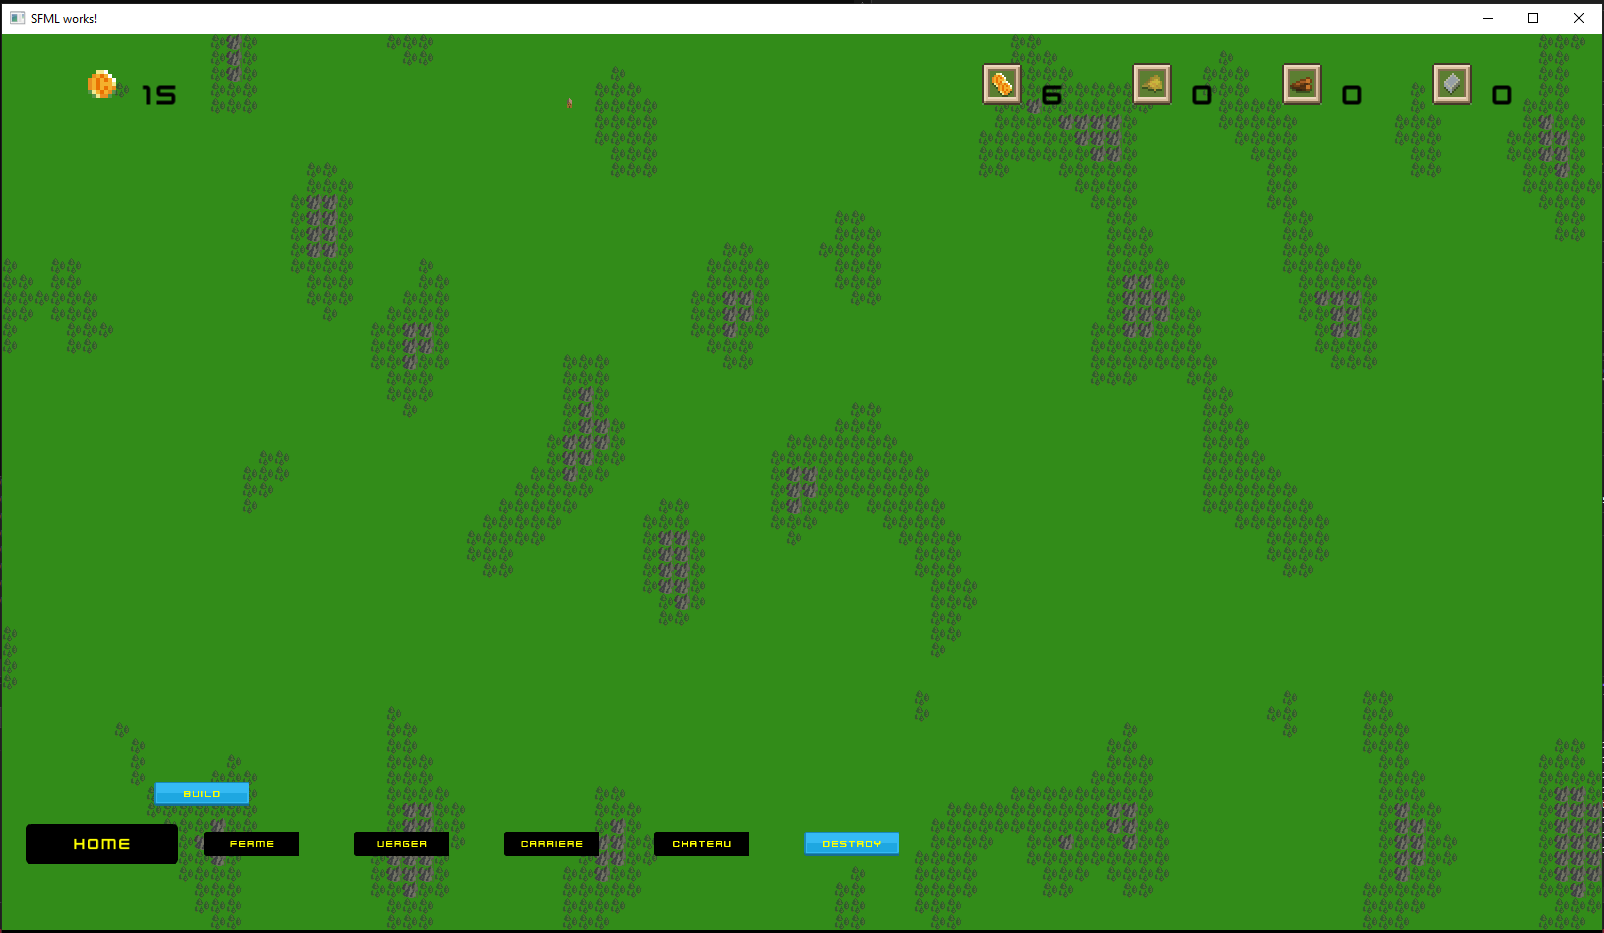
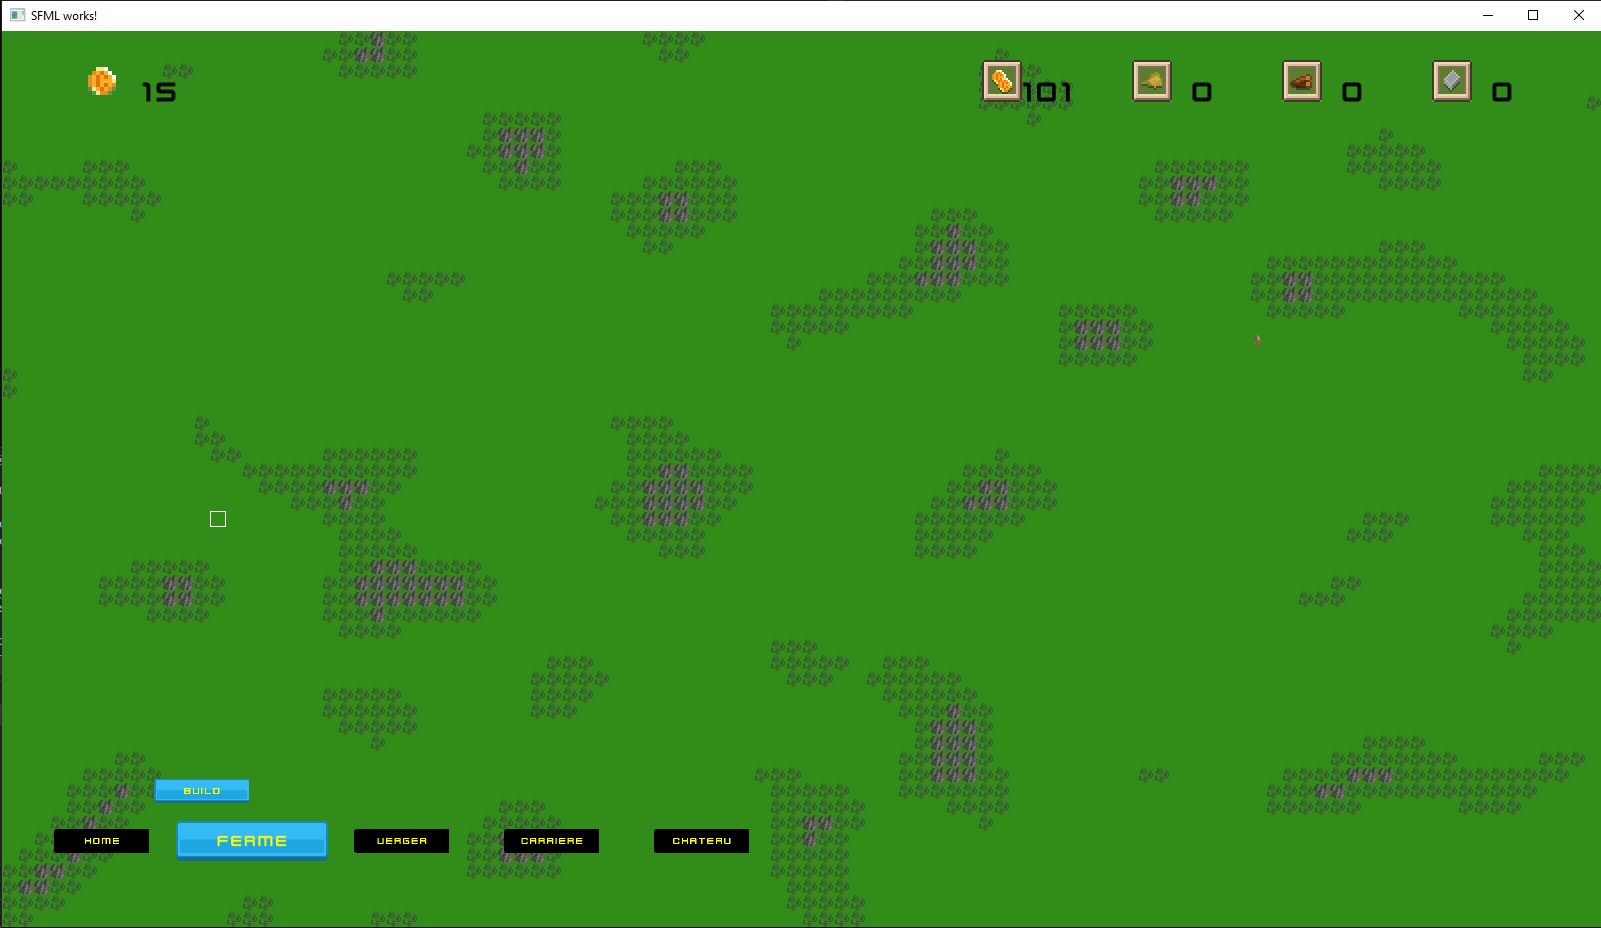
Corection Bug

diff --git a/game/src/main_game.cc b/game/src/main_game.cc
@@ -25,7 +25,10 @@ MainGame::MainGame()
 
 	resource_.setUiPosistion(window_);
 
-	tilemap_.ClickedTile_ = std::bind(&BuildingManager::AddBuilding, &building_manager_, std::placeholders::_1, build_, &resource_);
+	tilemap_.ClickedTile_ = [this](Tile& tile)
+		{
+			building_manager_.AddBuilding(tile, build_, resource_);
+		};
 
 	btn_generate.CreatButton(sf::Vector2f(50, 760), "Generate", 20, sf::Color::Yellow);
 	btn_generate.setScale(0.5f, 0.5f);
@@ -53,7 +56,7 @@ MainGame::MainGame()
 		};
 
 	btn_building_Home.CreatButton(sf::Vector2f(100, 810), "Home", 20, sf::Color::Yellow);
-	btn_building_Home.setScale(0.8f, 0.8f);
+	btn_building_Home.setScale(0.5f, 0.5f);
 	btn_building_Home.call_back_ = [this]()
 		{
 			btn_building_Home.setScale(0.8f, 0.8f);
@@ -69,7 +72,7 @@ MainGame::MainGame()
 		};
 
 	btn_building_Ferme.CreatButton(sf::Vector2f(250, 810), "Ferme", 20, sf::Color::Yellow);
-	btn_building_Ferme.setScale(0.5f, 0.5f);
+	btn_building_Ferme.setScale(0.8f, 0.8f);
 	btn_building_Ferme.call_back_ = [this]()
 		{
 			btn_building_Ferme.setScale(0.8f, 0.8f);
@@ -280,98 +283,121 @@ void MainGame::GameLoop()
 				mouse_on_btn = true;
 			}*/
 
-			if (btn_building_Home.HandleEvent(event))
+			if (resource_.food() >= 100 && resource_.gold() >= 200)
 			{
-				mouse_on_btn = true;
+				if (btn_building_Home.HandleEvent(event))
+				{
+					mouse_on_btn = true;
+				}
 			}
 
-			if (btn_building_Ferme.HandleEvent(event))
+			if (resource_.gold() >= 100)
 			{
-				mouse_on_btn = true;
+				if (btn_building_Ferme.HandleEvent(event))
+				{
+					mouse_on_btn = true;
+				}
 			}
 
-			if (btn_building_Menuiserie.HandleEvent(event))
+			if (resource_.food() >= 200 && resource_.gold() >= 300)
 			{
-				mouse_on_btn = true;
+				if (btn_building_Menuiserie.HandleEvent(event))
+				{
+					mouse_on_btn = true;
+				}
 			}
 
-			if (btn_building_Carriere.HandleEvent(event))
+			if (resource_.food() >= 300 && resource_.gold() >= 400 && resource_.wood() >= 200)
 			{
-				mouse_on_btn = true;
+				if (btn_building_Carriere.HandleEvent(event))
+				{
+					mouse_on_btn = true;
+				}
 			}
 
-			if (btn_building_Chateau.HandleEvent(event))
+			if (resource_.food() >= 25000 && resource_.gold() >= 50000
+				&& resource_.wood() >= 12500 && resource_.stone() >= 10000)
 			{
-				mouse_on_btn = true;
+				if (btn_building_Chateau.HandleEvent(event))
+				{
+					mouse_on_btn = true;
+				}
 			}
 
 			if (resource_.gold() >= 100)
 			{
 				btn_building_Ferme.Set_Color_Sprite(sf::Color::White);
-				full_ressource_ = true;
+				full_ressource_for_ferme_ = true;
 			}
 			else
 			{
 				btn_building_Ferme.Set_Color_Sprite(sf::Color::Black);
-				full_ressource_ = false;
+				full_ressource_for_ferme_ = false;
 			}
 
 			if (resource_.food() >= 100 && resource_.gold() >= 200)
 			{
 				btn_building_Home.Set_Color_Sprite(sf::Color::White);
-				full_ressource_ = true;
+				full_ressource_for_home_ = true;
 			}
 			else
 			{
 				btn_building_Home.Set_Color_Sprite(sf::Color::Black);
-				full_ressource_ = false;
+				full_ressource_for_home_ = false;
 			}
 
 			if (resource_.food() >= 200 && resource_.gold() >= 300)
 			{
 				btn_building_Menuiserie.Set_Color_Sprite(sf::Color::White);
-				full_ressource_ = true;
+				full_ressource_for_verger_ = true;
 			}
 			else
 			{
 				btn_building_Menuiserie.Set_Color_Sprite(sf::Color::Black);
-				full_ressource_ = false;
+				full_ressource_for_verger_ = false;
 			}
 
 			if (resource_.food() >= 300 && resource_.gold() >= 400 && resource_.wood() >= 200)
 			{
 				btn_building_Carriere.Set_Color_Sprite(sf::Color::White);
-				full_ressource_ = true;
+				full_ressource_for_mine_ = true;
 			}
 			else
 			{
 				btn_building_Carriere.Set_Color_Sprite(sf::Color::Black);
-				full_ressource_ = false;
+				full_ressource_for_mine_ = false;
 			}
 
 			if (resource_.food() >= 25000 && resource_.gold() >= 50000
 				&& resource_.wood() >= 12500 && resource_.stone() >= 10000)
 			{
 				btn_building_Chateau.Set_Color_Sprite(sf::Color::White);
-				full_ressource_ = true;
+				full_ressource_for_chateau_ = true;
 			}
 			else
 			{
 				btn_building_Chateau.Set_Color_Sprite(sf::Color::Black);
-				full_ressource_ = false;
+				full_ressource_for_chateau_ = false;
 			}
 
 
 			if (destroy_active_)
 			{
-				tilemap_.ClickedTile_ = std::bind(&BuildingManager::SubBuilding, &building_manager_, std::placeholders::_1, &resource_);
+				tilemap_.ClickedTile_ = [this](Tile& tile)
+					{
+						building_manager_.SubBuilding(tile, resource_);
+					};
+				
 			}
 			else
 			{
-				tilemap_.ClickedTile_ = std::bind(&BuildingManager::AddBuilding, &building_manager_, std::placeholders::_1, build_, &resource_);
+				tilemap_.ClickedTile_ = [this](Tile& tile)
+					{
+						building_manager_.AddBuilding(tile, build_, resource_);
+					};
 			}
 
-			if (!mouse_on_btn && full_ressource_)
+			if (!mouse_on_btn && (full_ressource_for_home_ || full_ressource_for_ferme_ || full_ressource_for_verger_ || full_ressource_for_mine_ || full_ressource_for_chateau_))
 			{
 				tilemap_.HandleEvent(event, window_, view_);
 			}

diff --git a/api/src/gameplay/building_manager.cc b/api/src/gameplay/building_manager.cc
@@ -39,7 +39,7 @@ void BuildingManager::draw(sf::RenderTarget& target, sf::RenderStates states) co
 	}
 }
 
-void BuildingManager::CreatFirstBuildingHome(std::vector<Tile>& tiles, ResourceGame* resource_)
+void BuildingManager::CreatFirstBuildingHome(std::vector<Tile>& tiles, GameRessource* resource_)
 {
 	bool homeNotPlace = true;
 	std::random_device r;
@@ -61,7 +61,7 @@ void BuildingManager::CreatFirstBuildingHome(std::vector<Tile>& tiles, ResourceG
 	} while (homeNotPlace);
 }
 
-void BuildingManager::AddBuilding(Tile& tile, Build building, ResourceGame* resource_)
+void BuildingManager::AddBuilding(Tile& tile, Build building, GameRessource& resource_)
 {
 	Tile::TileType type;
 
@@ -80,40 +80,40 @@ void BuildingManager::AddBuilding(Tile& tile, Build building, ResourceGame* reso
 		case Build::kHome:
 		{
 			buildings_.emplace_back(tile.Position().x, tile.Position().y, Build::kHome);
-			resource_->AddBatiment(Build::kHome);
-			resource_->PayBatiment(Build::kHome);
+			resource_.AddBatiment(Build::kHome);
+			resource_.PayBatiment(Build::kHome);
 			type = Tile::TileType::kHome;
 		}
 		break;
 		case Build::kFerme:
 		{
 			buildings_.emplace_back(tile.Position().x, tile.Position().y, Build::kFerme);
-			resource_->AddBatiment(Build::kFerme);
-			resource_->PayBatiment(Build::kFerme);
+			resource_.AddBatiment(Build::kFerme);
+			resource_.PayBatiment(Build::kFerme);
 			type = Tile::TileType::kFerme;
 		}
 		break;
 		case Build::kVerger:
 		{
 			buildings_.emplace_back(tile.Position().x, tile.Position().y, Build::kVerger);
-			resource_->AddBatiment(Build::kVerger);
-			resource_->PayBatiment(Build::kVerger);
+			resource_.AddBatiment(Build::kVerger);
+			resource_.PayBatiment(Build::kVerger);
 			type = Tile::TileType::kVerger;
 		}
 		break;
 		case Build::kCarriere:
 		{
 			buildings_.emplace_back(tile.Position().x, tile.Position().y, Build::kCarriere);
-			resource_->AddBatiment(Build::kCarriere);
-			resource_->PayBatiment(Build::kCarriere);
+			resource_.AddBatiment(Build::kCarriere);
+			resource_.PayBatiment(Build::kCarriere);
 			type = Tile::TileType::kCarriere;
 		}
 		break;
 		case Build::kChateau:
 		{
 			buildings_.emplace_back(tile.Position().x, tile.Position().y, Build::kChateau);
-			resource_->AddBatiment(Build::kChateau);
-			resource_->PayBatiment(Build::kChateau);
+			resource_.AddBatiment(Build::kChateau);
+			resource_.PayBatiment(Build::kChateau);
 			type = Tile::TileType::kChateau;
 		}
 		break;
@@ -124,7 +124,7 @@ void BuildingManager::AddBuilding(Tile& tile, Build building, ResourceGame* reso
 	}
 }
 
-void BuildingManager::SubBuilding(Tile& tile, ResourceGame* resource_)
+void BuildingManager::SubBuilding(Tile& tile, GameRessource& resource_)
 {
 	if (!is_active_)
 	{
@@ -141,7 +141,7 @@ void BuildingManager::SubBuilding(Tile& tile, ResourceGame* resource_)
 			return b.Position() == tile.Position(); });
 
 		buildings_.erase(it);
-		resource_->SubBatiment(tile.Type());
+		resource_.SubBatiment(tile.Type());
 	}
 
 

diff --git a/game/include/main_game.h b/game/include/main_game.h
@@ -35,7 +35,7 @@ class MainGame
 
 	sf::RenderWindow window_;
 
-	ResourceGame resource_;
+	GameRessource resource_;
 
 	sf::View view_;
 	sf::View viewUi_;
@@ -44,11 +44,15 @@ class MainGame
 	bool isPanning = false;
 	sf::Vector2f oldPos;
 	sf::Vector2f newPos;
-	Build build_ = Build::kHome;
+	Build build_ = Build::kFerme;
 	bool build_active_ = false;
 	bool destroy_active_ = false;
 	bool mouse_on_btn;
-	bool full_ressource_ = false;
+	bool full_ressource_for_home_ = false;
+	bool full_ressource_for_ferme_ = false;
+	bool full_ressource_for_verger_ = false;
+	bool full_ressource_for_mine_ = false;
+	bool full_ressource_for_chateau_ = false;
 
 	const int gridWidth = tilemap_.playground_size_u_.x;
 	const int gridHeight = tilemap_.playground_size_u_.y;

diff --git a/api/include/gameplay/building_manager.h b/api/include/gameplay/building_manager.h
@@ -19,12 +19,12 @@ private:
 	bool GetActive() const;
 
 public :
-	void AddBuilding (Tile& tile, Build build, ResourceGame* resource_);
-	void SubBuilding(Tile& tile, ResourceGame* resource_);
+	void AddBuilding (Tile& tile, Build build, GameRessource& resource_);
+	void SubBuilding(Tile& tile, GameRessource& resource_);
 
 	void ClearMap();
 
-	void CreatFirstBuildingHome(std::vector<Tile>& tiles, ResourceGame* resource_);
+	void CreatFirstBuildingHome(std::vector<Tile>& tiles, GameRessource* resource_);
 
 	void build(sf::RenderWindow& window);
 

diff --git a/api/include/gameplay/game_ressource.h b/api/include/gameplay/game_ressource.h
@@ -6,7 +6,7 @@
 #include "Building.h"
 #include "graphics/tile.h"
 
-class ResourceGame
+class GameRessource
 {
 
 	sf::Sprite sprite_Gold_;
@@ -48,7 +48,7 @@ class ResourceGame
 	std::chrono::time_point<std::chrono::steady_clock> TaxeSecondLast;
 
 public:
-	ResourceGame();
+	GameRessource();
 	void setUiPosistion(sf::RenderWindow&);
 
 	[[nodiscard]] int gold() const { return Gold; }
